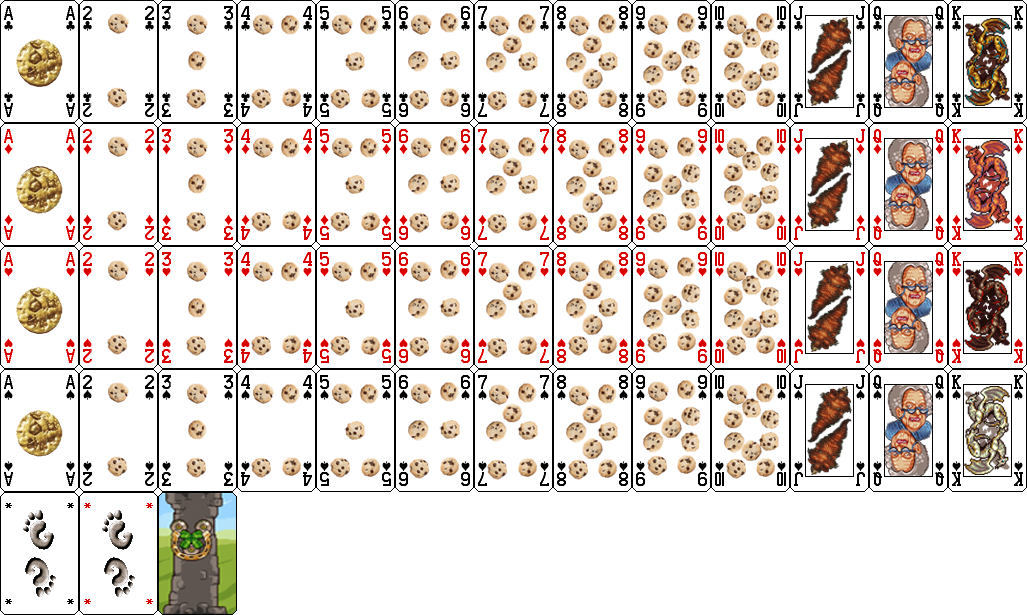
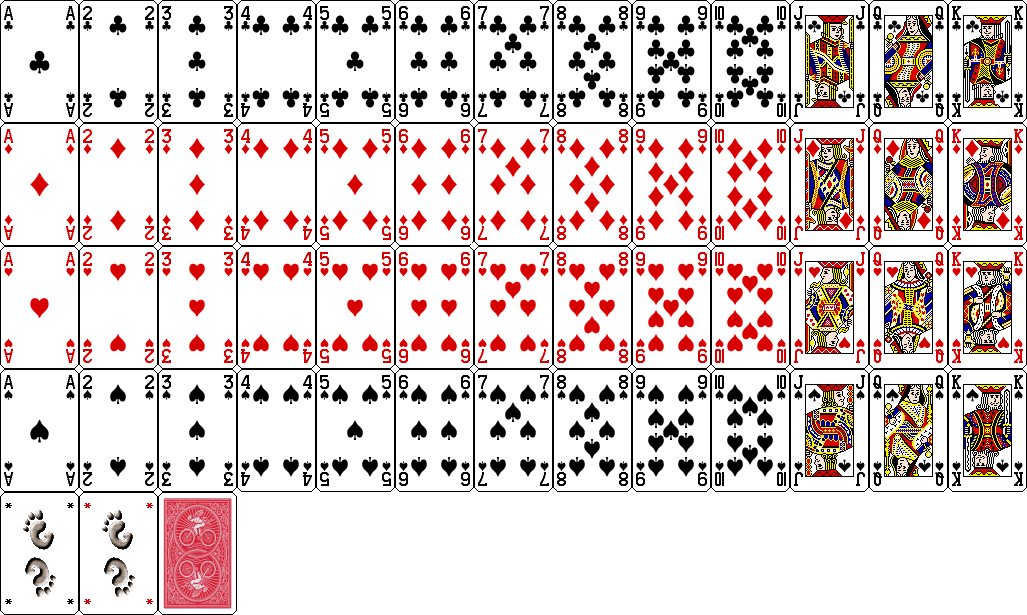
phantasypants suggestions

diff --git a/CookieClicker/minigameCasino.js b/CookieClicker/minigameCasino.js
@@ -11,8 +11,8 @@ M.launch = function(){
 	var script = l('minigameScript-' + M.parent.id);
 	var src = script.src;
 	M.sourceFolder = src.substring(0, src.lastIndexOf('/') + 1);
-	M.cardsImage = M.sourceFolder + 'img/cards.png'
-	M.iconsImage = M.sourceFolder + 'img/casinoIcons.png'
+	M.cardsImage = M.sourceFolder + 'img/phantasypantsCards.png';
+	M.iconsImage = M.sourceFolder + 'img/casinoIcons.png';
 	M.chancemakerChance = 0.0003;
 	M.beatLength = 750;
 	
@@ -601,6 +601,7 @@ M.launch = function(){
 		
 		M.getHandValue(M.hands.dealer);
 		if(M.Deck.length < (M.minDecks * 52)) M.reshuffle();
+		if(M.phase == M.phases.inactive) M.hands = {dealer:{value:0, cards:[]}, player:[{value:0, cards:[]}]};
 		
 		M.buildSidebar();
 		M.buildTable();
